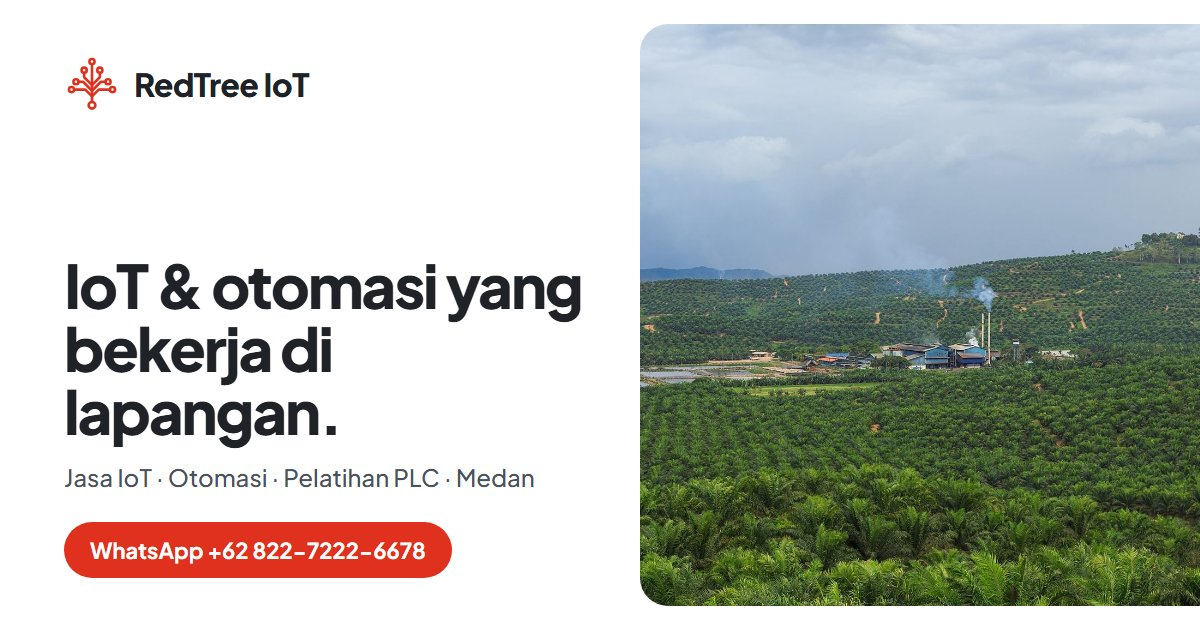
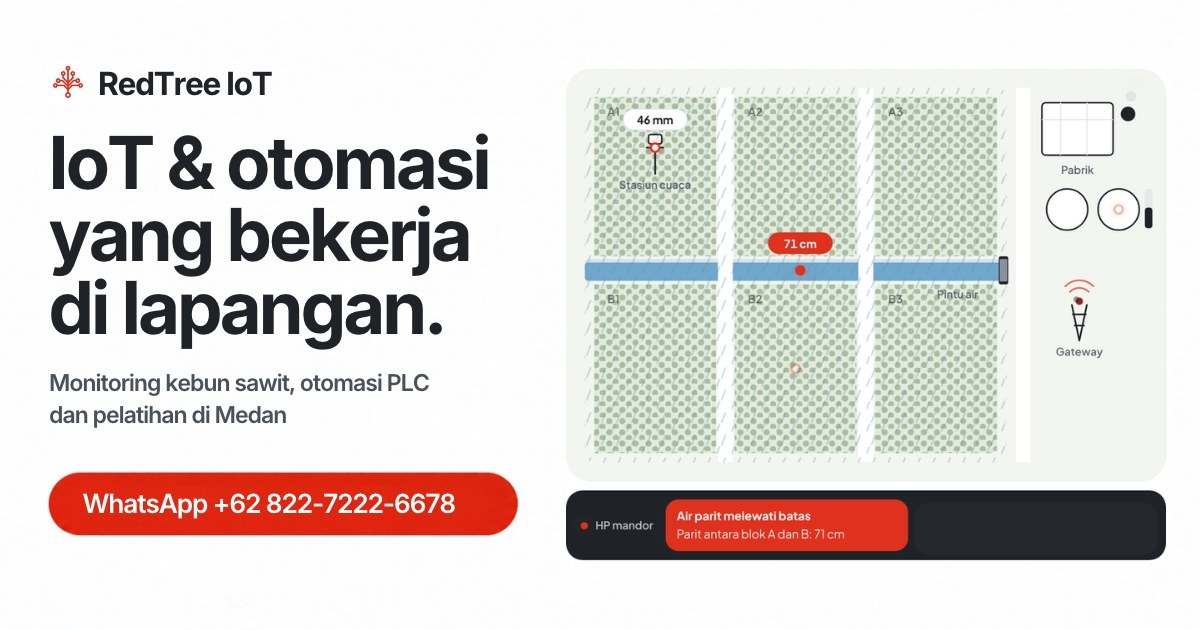
New Open Graph share image made in Canva
1200x630 image with the estate-map illustration (heavy-rain alarm moment),
headline and WhatsApp number, replacing the photo-based og-image.jpg.
og:image gets ?v=2 so WhatsApp/Facebook fetch the new image instead of
a cached one; alt text updated on all pages.

Claude-Session: https://claude.ai/code/session_01HBNVg8iWhsAMgEkXeCK5Xj

diff --git a/site/pelatihan-plc-iot-medan/index.html b/site/pelatihan-plc-iot-medan/index.html
@@ -16,10 +16,10 @@
   <meta property="og:url" content="https://redtreeiot.netlify.app/pelatihan-plc-iot-medan/">
   <meta property="og:title" content="Pelatihan PLC &amp; kursus IoT di Medan · RedTree IoT">
   <meta property="og:description" content="Pelatihan PLC dan kursus IoT di Medan: ESP32, elektronika, HMI/SCADA, Modbus &amp; MQTT untuk siswa SMK, mahasiswa, teknisi dan tim perusahaan. Daftar minat.">
-  <meta property="og:image" content="https://redtreeiot.netlify.app/og-image.jpg">
+  <meta property="og:image" content="https://redtreeiot.netlify.app/og-image.jpg?v=2">
   <meta property="og:image:width" content="1200">
   <meta property="og:image:height" content="630">
-  <meta property="og:image:alt" content="RedTree IoT: IoT &amp; otomasi yang bekerja di lapangan, Medan">
+  <meta property="og:image:alt" content="RedTree IoT: IoT &amp; otomasi yang bekerja di lapangan, dengan ilustrasi peta kebun sawit dan alarm muka air parit">
   <meta name="twitter:card" content="summary_large_image">
   <link rel="icon" href="../favicon.svg" type="image/svg+xml">
   <link rel="apple-touch-icon" href="../icons/apple-touch-icon.png">

diff --git a/site/jasa-iot-otomasi-medan/index.html b/site/jasa-iot-otomasi-medan/index.html
@@ -16,10 +16,10 @@
   <meta property="og:url" content="https://redtreeiot.netlify.app/jasa-iot-otomasi-medan/">
   <meta property="og:title" content="Jasa IoT &amp; otomasi PLC di Medan · RedTree IoT">
   <meta property="og:description" content="Jasa IoT dan otomasi PLC di Medan: monitoring sensor ke dashboard, pembuatan dan retrofit panel PLC HMI, serta konsultasi. Harga bisa dinego via WhatsApp.">
-  <meta property="og:image" content="https://redtreeiot.netlify.app/og-image.jpg">
+  <meta property="og:image" content="https://redtreeiot.netlify.app/og-image.jpg?v=2">
   <meta property="og:image:width" content="1200">
   <meta property="og:image:height" content="630">
-  <meta property="og:image:alt" content="RedTree IoT: IoT &amp; otomasi yang bekerja di lapangan, Medan">
+  <meta property="og:image:alt" content="RedTree IoT: IoT &amp; otomasi yang bekerja di lapangan, dengan ilustrasi peta kebun sawit dan alarm muka air parit">
   <meta name="twitter:card" content="summary_large_image">
   <link rel="icon" href="../favicon.svg" type="image/svg+xml">
   <link rel="apple-touch-icon" href="../icons/apple-touch-icon.png">

diff --git a/site/monitoring-kebun-sawit/index.html b/site/monitoring-kebun-sawit/index.html
@@ -16,10 +16,10 @@
   <meta property="og:url" content="https://redtreeiot.netlify.app/monitoring-kebun-sawit/">
   <meta property="og:title" content="Monitoring kebun sawit dengan IoT · RedTree IoT">
   <meta property="og:description" content="Monitoring kebun sawit IoT dari Medan: sensor perkebunan sawit untuk hujan, tanah, muka air dan cuaca, serta otomasi pabrik kelapa sawit. Harga bisa dinego.">
-  <meta property="og:image" content="https://redtreeiot.netlify.app/og-image.jpg">
+  <meta property="og:image" content="https://redtreeiot.netlify.app/og-image.jpg?v=2">
   <meta property="og:image:width" content="1200">
   <meta property="og:image:height" content="630">
-  <meta property="og:image:alt" content="RedTree IoT: IoT &amp; otomasi yang bekerja di lapangan, Medan">
+  <meta property="og:image:alt" content="RedTree IoT: IoT &amp; otomasi yang bekerja di lapangan, dengan ilustrasi peta kebun sawit dan alarm muka air parit">
   <meta name="twitter:card" content="summary_large_image">
   <link rel="icon" href="../favicon.svg" type="image/svg+xml">
   <link rel="apple-touch-icon" href="../icons/apple-touch-icon.png">

diff --git a/site/index.html b/site/index.html
@@ -16,10 +16,10 @@
   <meta property="og:url" content="https://redtreeiot.netlify.app/">
   <meta property="og:title" content="RedTree IoT · Jasa IoT &amp; otomasi, pelatihan PLC di Medan">
   <meta property="og:description" content="Solusi IoT dan otomasi, pelatihan, serta konsultasi untuk perkebunan, pabrik sawit, gedung dan sekolah di Medan. Harga bisa dinego via WhatsApp.">
-  <meta property="og:image" content="https://redtreeiot.netlify.app/og-image.jpg">
+  <meta property="og:image" content="https://redtreeiot.netlify.app/og-image.jpg?v=2">
   <meta property="og:image:width" content="1200">
   <meta property="og:image:height" content="630">
-  <meta property="og:image:alt" content="RedTree IoT: IoT &amp; otomasi yang bekerja di lapangan, Medan">
+  <meta property="og:image:alt" content="RedTree IoT: IoT &amp; otomasi yang bekerja di lapangan, dengan ilustrasi peta kebun sawit dan alarm muka air parit">
   <meta name="twitter:card" content="summary_large_image">
   <link rel="apple-touch-icon" href="icons/apple-touch-icon.png">
   <link rel="manifest" href="/manifest.webmanifest">
